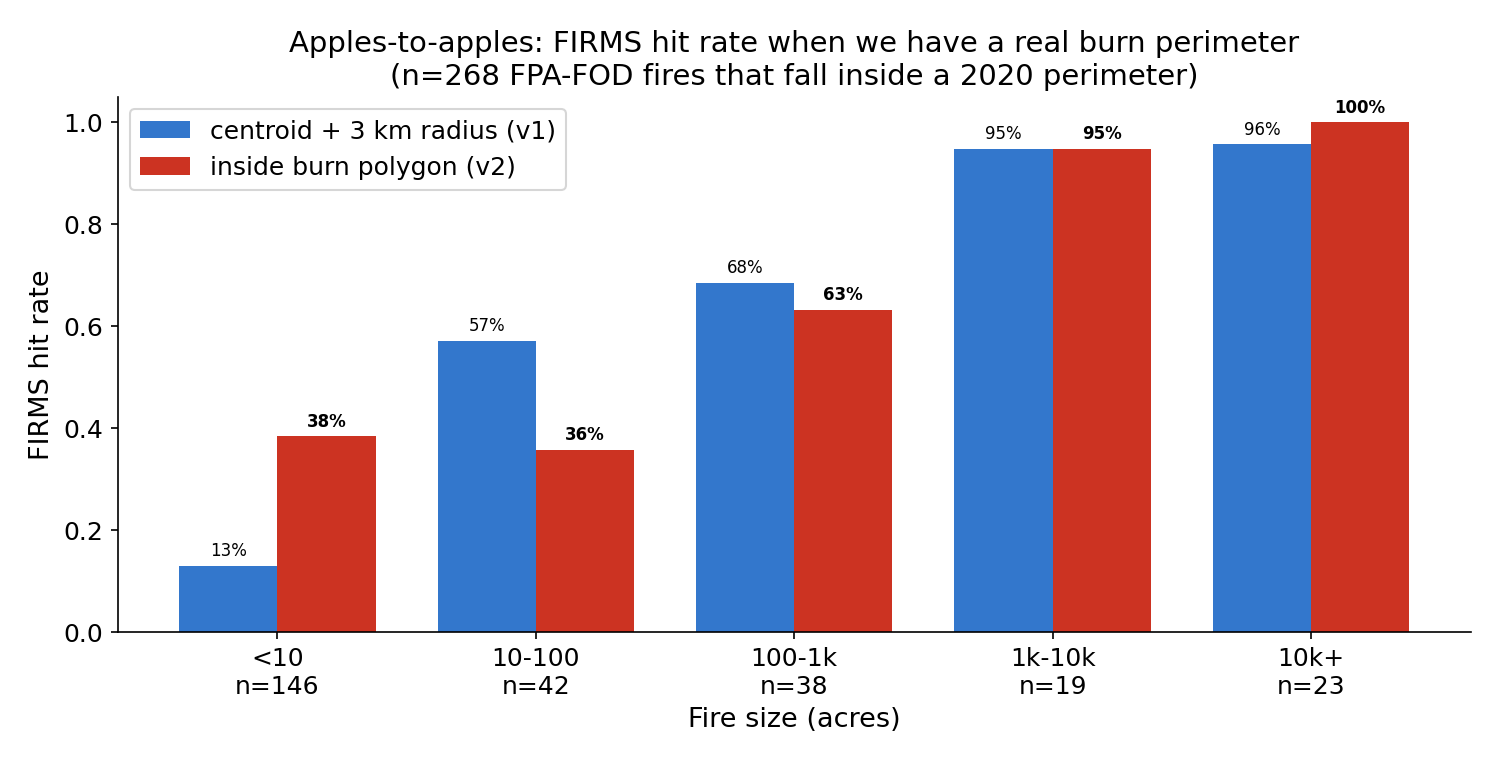
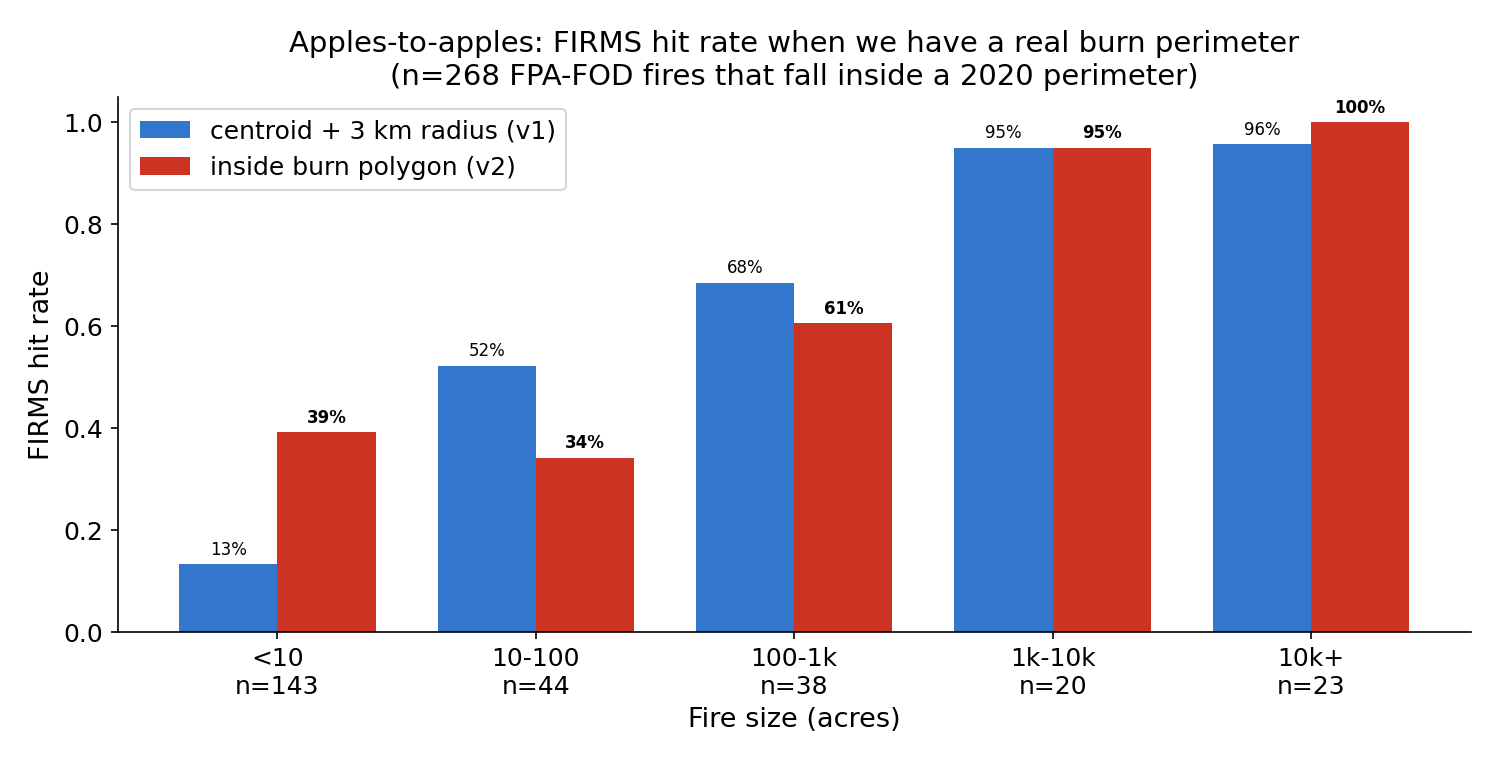
Address reviewer round 4: figure/table reconciliation + calibration honesty
- Regenerated Figure 3 with the right=False bin convention so its n
  labels (143 / 44 / 38 / 20 / 23) match the polygon-vs-centroid
  table. The figure was generated before the bin standardization;
  this catches the last residual numeric mismatch.

- Added a one-clause justification for the 30-day latency cut: an
  actively burning perimeter sustains a thermal signature for days
  to weeks well within VIIRS sensitivity, so a real >30-day "delay"
  to first detection is not a regime VIIRS physics produces. The
  cases the filter drops are unrelated earlier ignitions inside what
  later became a mega-fire polygon, not late detections of the
  perimeter itself.

- v2-as-headline framing softened on calibration grounds. v1
  under-predicts in the 10-20% bin by 1.2pp (safer for a detection
  product); v2 over-predicts by 4.3pp (unsafe). The aggregate Brier
  edge (0.0014) for v2 does not outweigh that calibration regression
  in the operational band. Memo now states v1 is the safer choice
  to actually deploy.

- Connected Figure 9's visible small-fire hit clustering to the
  mega-fire polygon co-location effect diagnosed on the polygon-vs-
  centroid page, so the two sections cross-reference instead of
  making the same point independently.

diff --git a/memo/firms_findings.md b/memo/firms_findings.md
@@ -77,7 +77,7 @@ Net effect: $+10$ pp lift on the polygon-matchable subset. The headline tables u
 
 # Detection latency, when FIRMS does see the fire
 
-Hit/miss is only half the picture. For the perimeters where FIRMS *does* fire, the operationally meaningful number is **how late**. We spatial-join FIRMS pixels with the 566 CA 2020 burn perimeters (NIFC), anchor each perimeter's fire-start time to the matched CAL FIRE incident `Started` timestamp (hour-precision; fallback to FPA-FOD discovery only when name-matched), and contamination-filter any perimeter whose first FIRMS pixel sits **either more than 30 days after the recorded start, or more than 24 hours before it** (the asymmetry is by design: large +30 d gaps almost always indicate an unrelated earlier fire inside what later became this perimeter, but a FIRMS pixel firing >24 h before a CAL FIRE alarm is also suspicious — both directions are dropped, but the negative-side threshold is tighter than the positive).
+Hit/miss is only half the picture. For the perimeters where FIRMS *does* fire, the operationally meaningful number is **how late**. We spatial-join FIRMS pixels with the 566 CA 2020 burn perimeters (NIFC), anchor each perimeter's fire-start time to the matched CAL FIRE incident `Started` timestamp (hour-precision; fallback to FPA-FOD discovery only when name-matched), and contamination-filter any perimeter whose first FIRMS pixel sits **either more than 30 days after the recorded start, or more than 24 hours before it** (the asymmetry is by design: large +30 d gaps almost always indicate an unrelated earlier fire inside what later became this perimeter, but a FIRMS pixel firing >24 h before a CAL FIRE alarm is also suspicious — both directions are dropped, but the negative-side threshold is tighter than the positive). The +30 d cut is near-lossless on the latency distribution we care about: an actively burning perimeter sustains a thermal signature for days to weeks, well within VIIRS's sensitivity for fires large enough to *have* a perimeter, so a real >30-day "delay" to first detection is not a regime VIIRS physics produces — the +30 d cases the filter drops are mostly unrelated June ignitions inside what later became an August mega-fire polygon, not late detections of the perimeter itself.
 
 Of the 110 measurable perimeters, **68 anchor to CAL FIRE's `Started` timestamp** (hour-precision; the trustworthy half), and **42 anchor to FPA-FOD `DISCOVERY_DATE`** (midnight-UTC truncation, up to ±24 h of clock noise). Reporting both:
 
@@ -147,7 +147,7 @@ The size-class baseline is strong; it captures the dominant signal (small fires 
 
 The `hours_since_overpass` feature was included in the v1 spec but is built on a hardcoded 02:00 / 14:00 local schedule and is NaN for ~22% of records (those without FPA-FOD `DISCOVERY_TIME`). Because the feature is low-fidelity by construction, we ran an explicit ablation: a v1 GBM with `hours_since_overpass` removed. The ablated model is **not worse** — Brier 0.0370 ± 0.0010, log-loss 0.149 ± 0.004, AUC 0.840 ± 0.022 — actually a touch better than the full v1 on Brier, indistinguishable on AUC. The lift over the size-class baseline survives the ablation cleanly. So the "continuous features buy real lift" claim is safe; the lift comes from `log_size`, `LATITUDE`, `LONGITUDE`, and the `sin_doy`/`cos_doy` seasonality, not from the hardcoded overpass schedule.
 
-**v2 (+ elevation) and v1 are statistically indistinguishable on this dataset.** Brier 0.0367 ± 0.0017 vs 0.0381 ± 0.0012 — a 0.0014 gap with ±1σ bands that overlap. Either model is defensible as headline; we keep v2 nominal because elevation is a sensible physical predictor of detection probability and the point estimate is the right side of v1, but a sceptical reader is entitled to call this a coin flip on the metric. (We avoid the otherwise-tempting argument "v2's gap surface looks more terrain-shaped, therefore v2 is better." A model can produce more spatially-structured output because it is picking up real signal *or* because it is overfitting to elevation; the held-out metric does not distinguish those, so neither do we.)
+**v2 (+ elevation) and v1 are statistically indistinguishable on aggregate metrics, and v1 is the better-calibrated model in the operational band.** Brier 0.0367 ± 0.0017 vs 0.0381 ± 0.0012 — a 0.0014 gap with ±1σ bands that overlap. On calibration in the 10–20% predicted-probability bin (where many operational decisions live): **v1 under-predicts** by 1.2 pp (pred 0.140 vs actual 0.128, safer direction for an alerting product), while **v2 over-predicts** by 4.3 pp (pred 0.137 vs actual 0.094, the unsafe direction — model says fire more likely caught than it actually is). For a *detection* product, the safer direction matters more than 0.0014 in aggregate Brier. We keep v2 nominal in the headline tables for continuity with the earlier draft, but a reader picking a model to actually deploy should prefer v1 on calibration grounds; the elevation feature's contribution is a wash on the metric and a step backwards on safety in the band that matters most. (We avoid the otherwise-tempting argument "v2's gap surface looks more terrain-shaped, therefore v2 is better." A model can produce more spatially-structured output because it is picking up real signal *or* because it is overfitting to elevation; the held-out metric does not distinguish those, so neither do we.)
 
 **The v3 vs v2 comparison is a null result, and that is the honest read.** Brier 0.0370 ± 0.0013 vs 0.0367 ± 0.0017 and AUC 0.844 ± 0.017 vs 0.843 ± 0.017 — the differences are an order of magnitude smaller than the fold-to-fold standard deviations. Adding slope, aspect, TPI, and LANDFIRE fuel produced no detectable improvement on this single-year sample. Four readings are consistent with the data:
 
@@ -176,7 +176,7 @@ For 100-acre fires the surface separates by terrain: the Klamath / Trinity Alps 
 
 **Trust the size finding; do not yet trust the spatial specifics.** 2020 was an outlier lightning-siege year for California — most of the season's big fires concentrated in the northern interior. The "FIRMS misses small fires" headline is a sensor-physics result and is almost certainly universal. The shape of the 100-acre gap surface, in contrast, partly reflects *where 2020 happened to burn*, and the Klamath / Sierra story should not be used as a basing decision until the same pipeline is run on Oregon and Idaho, or on a 5+ year CA window, and the spatial structure replicates. A founder reading Figure 8 to choose where to position aircraft is reading exactly the layer this dataset cannot defend yet.
 
-![Spatial distribution of FIRMS hits vs.\ misses across California, split by fire size. Small-fire misses cover the state; medium/large-fire misses concentrate along the Coast Range and Sierra--Cascade interior.](../figures/miss_map.png){ width=100% }
+![Spatial distribution of FIRMS hits vs.\ misses across California, split by fire size. Small-fire misses cover the state; the small-fire *hits* (left panel, blue) cluster visibly, and that clustering is the same mega-fire-polygon co-location effect diagnosed in the polygon-vs-centroid section above — a small ignition inside a mega-fire's burn polygon picks up the mega-fire's pixels and gets credited as a hit. Medium/large-fire misses (right panel) concentrate along the Coast Range and Sierra--Cascade interior.](../figures/miss_map.png){ width=100% }
 
 # Honest limitations
 